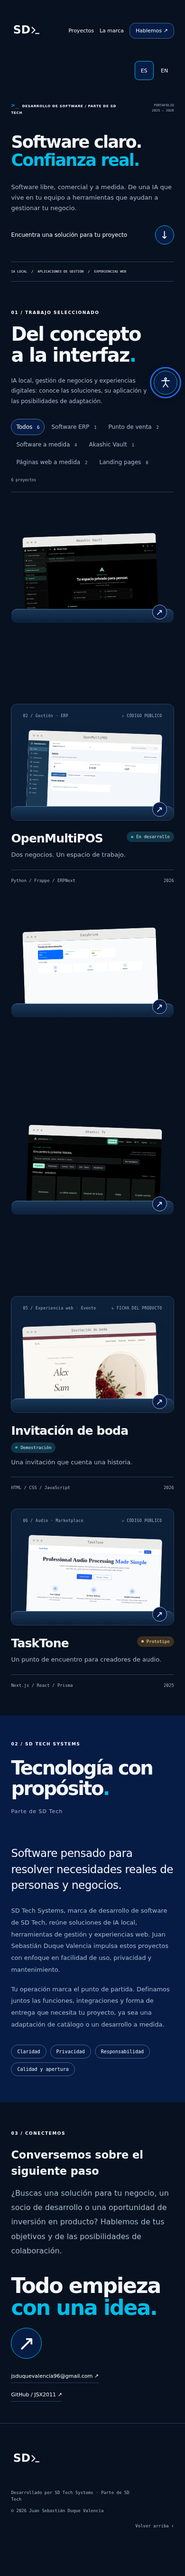
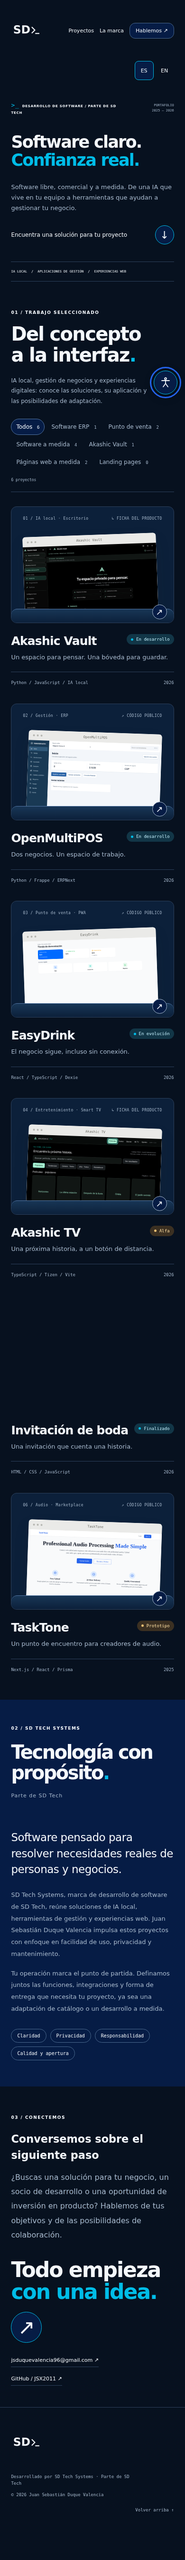
Update the wedding project page and demo presentation

diff --git a/src/data/client-details.ts b/src/data/client-details.ts
@@ -1,4 +1,4 @@
-type Detail = { audience: string; purpose: string; architecture: string; deployment: string; considerations: string; attribution?: string };
+type Detail = { audience: string; purpose: string; architecture: string; deployment: string; considerations: string; attribution?: string; inquiryLabel?: string };
 export const clientDetails: Record<string, { es: Detail; en: Detail }> = {
  'akashic-vault': {
   es:{ audience:'Personas y equipos que buscan asistencia de IA en un PC Windows y control local sobre el historial guardado.',purpose:'Redactar, organizar ideas y trabajar con asistentes sin depender de una cuenta en la nube para el chat local.',architecture:'Aplicación de escritorio con interfaz HTML/CSS/JavaScript servida por un backend Python local. Los motores de inferencia se ejecutan en el equipo; el historial guardado se gestiona en una bóveda cifrada vinculada a la USB de origen.',deployment:'Windows x64. Los motores y modelos requieren instalación local; memoria, almacenamiento y capacidades de imagen/video dependen de la edición y del hardware.',considerations:'Está en desarrollo. Las descargas y consultas web requieren consentimiento y conexión. Deben revisarse requisitos del equipo, licencias de modelos, respaldo y condiciones de entrega antes de contratar.'},
@@ -17,8 +17,8 @@ export const clientDetails: Record<string, { es: Detail; en: Detail }> = {
   en:{audience:'An example of custom development for TV remote-control navigation.',purpose:'Browse movies and series, inspect title details and select providers in a Smart TV interface.',architecture:'An HTML/CSS/TypeScript client built with Vite for Samsung Tizen and Chromium 85. The catalog queries an external metadata service; playback uses iframe-based providers with loading and recovery states.',deployment:'Private packages for Samsung Tizen TVs. Compatibility is assessed for each model and operating-system version.',considerations:'A private-use alpha. External services determine availability, audio and subtitles. This is not an audiovisual catalog offering or a guarantee of playback or content rights.'}
  },
  invitacion:{
-  es:{audience:'Clientes que buscan una página de evento con identidad visual propia y confirmación de asistencia.',purpose:'Presentar la historia y los detalles de un evento y simplificar el registro de invitados.',architecture:'Interfaz HTML/CSS/JavaScript con diseño adaptable y confirmación por grupos de personas. La demostración permite explorar la interacción sin enviar ni guardar respuestas. La integración con servicios de registro se define para cada entrega.',deployment:'Demostración estática adaptable a móvil y escritorio. El formulario permite probar validación y grupos de personas; no constituye una confirmación de asistencia real. Una integración operativa se configura por separado para cada cliente.',considerations:'Diseño, contenidos, dominio y registro de invitados se personalizan para cada evento. El tratamiento de datos y las condiciones de uso se acuerdan antes de activar una integración de asistencia.'},
-  en:{audience:'Customers seeking an event website with a tailored visual identity and RSVP functionality.',purpose:'Present an event’s story and details while simplifying guest registration.',architecture:'A responsive HTML/CSS/JavaScript interface with group RSVP interaction. The demonstration lets visitors explore the experience without sending or saving responses. Registration-service integration is defined for each delivery.',deployment:'A responsive static demonstration for mobile and desktop. The form supports validation and groups of people, but does not register real attendance. An operational integration is configured separately for each customer.',considerations:'Design, content, domain and guest registration are tailored to each event. Data handling and terms of use are agreed before enabling an attendance integration.'}
+  es:{audience:'Clientes que buscan una página de evento con identidad visual propia y confirmación de asistencia.',purpose:'Presentar la historia y los detalles de un evento y simplificar el registro de invitados.',architecture:'Interfaz HTML/CSS/JavaScript con diseño adaptable, galería y confirmación por grupos de personas. Despliegue en Cloudflare Workers con integración de registro de respuestas.',deployment:'Web entregada y publicada, adaptable a móvil y escritorio. En nuevos proyectos, los contenidos, la identidad visual y la configuración de publicación se personalizan para cada cliente.',considerations:'Este trabajo muestra una de las experiencias que podemos crear para tu evento. El diseño, los contenidos y las funciones de una nueva página se definen según tus necesidades.',inquiryLabel:'Quiero una página como esta'},
+  en:{audience:'Customers seeking an event website with a tailored visual identity and RSVP functionality.',purpose:'Present an event’s story and details while simplifying guest registration.',architecture:'A responsive HTML/CSS/JavaScript interface with a gallery and group RSVP interaction. Deployed on Cloudflare Workers with response-registration integration.',deployment:'A delivered and published website, responsive across mobile and desktop. For new projects, content, visual identity and publication settings are tailored to each client.',considerations:'This project showcases an experience we can create for your event. The design, content and features of a new website are shaped around your requirements.',inquiryLabel:'I want a website like this'}
  },
  tasktone:{
   es:{audience:'Ejemplo de producto digital para conectar clientes con profesionales de servicios de audio.',purpose:'Organizar encargos de procesamiento de audio desde la solicitud hasta la entrega; el flujo comercial completo sigue siendo una propuesta.',architecture:'Aplicación Next.js y React con TypeScript. Rutas API de Next.js, esquema PostgreSQL mediante Prisma y autenticación por roles. Las integraciones de pagos, almacenamiento y mensajería deben completarse y verificarse.',deployment:'Aplicación web con backend y base de datos PostgreSQL. Para una entrega se requieren infraestructura, variables de entorno, almacenamiento y servicios externos configurados.',considerations:'Producto en fase de prototipo. La siguiente etapa de desarrollo contempla cargas, pagos, mensajería y paneles, junto con la validación del flujo comercial completo.'},

diff --git a/src/data/projects.ts b/src/data/projects.ts
@@ -45,13 +45,13 @@ export const projects = [
   },
   {
     id: 'invitacion', name: 'Invitación de boda', category: 'Experiencia web · Evento', group: 'web', private: true,
-    status: 'Demostración', version: 'Diseño de referencia', year: '2026', image: 'invitation-demo-3a01c953b117.png', color: '#e6d4d4',
+    status: 'Finalizado', version: 'Proyecto entregado', year: '2026', image: 'invitation-demo-3a01c953b117.png', color: '#e6d4d4',
     title: 'Una invitación que cuenta una historia.',
-    description: 'Invitación de boda adaptable en español, con una dirección visual en burdeos y marfil. Combina la historia de la pareja, una galería y herramientas para organizar la asistencia.',
-    features: ['Portada, historia y galería con ampliación.', 'Cuenta regresiva, mapas y acceso a calendarios.', 'Confirmación familiar con registro individual por asistente.', 'Formulario de demostración local, sin envío ni almacenamiento de respuestas.'],
-    progress: 'Demostración interactiva de una invitación personalizada. Cada entrega se adapta al estilo del evento, sus contenidos y las integraciones acordadas. El formulario de esta muestra no registra asistencia real.',
+    description: 'Web de boda a medida, finalizada y aprobada por el cliente. Integra diseño adaptable, galería, información del evento y confirmación de asistencia en una experiencia personalizada.',
+    features: ['Portada, historia y galería con ampliación.', 'Cuenta regresiva, mapas y acceso a calendarios.', 'Confirmación familiar con registro individual por asistente.', 'Formulario de confirmación integrado en la experiencia del evento.'],
+    progress: 'Proyecto finalizado, revisado y aprobado por el cliente. Un ejemplo de desarrollo web a medida que puede adaptarse a otros eventos, estilos y necesidades.',
     stack: ['HTML', 'CSS', 'JavaScript', 'Cloudflare Workers'],
-    capture: 'Diseño de invitación con ilustración y datos de ejemplo.',
+    capture: 'Muestra del proyecto entregado con ilustración y datos ficticios para su presentación pública.',
     source: 'private-event-demo',
   },
   {

diff --git a/src/data/projects-en.ts b/src/data/projects-en.ts
@@ -33,12 +33,12 @@ export const english: Record<string, { name?: string; category: string; status: 
   capture:'Catalog browsing with sample titles.',
  },
  invitacion:{
-  name:'Wedding invitation', category:'Web experience · Event',status:'Demonstration',version:'Reference design',
+  name:'Wedding invitation', category:'Web experience · Event',status:'Completed',version:'Delivered project',
   title:'An invitation that tells a story.',
-  description:'A responsive Spanish wedding invitation with a burgundy and ivory visual direction. It combines the couple’s story, a gallery and tools for organizing attendance.',
-  features:['Cover, story and a gallery with image enlargement.','Countdown, maps and calendar links.','Family RSVP with an individual record for each guest.','A local demonstration form that does not send or store responses.'],
-  progress:'An interactive demonstration of a personalized invitation. Each delivery is tailored to the event’s style, content and agreed integrations. The sample form does not register real attendance.',
-  capture:'Invitation design with an illustration and sample details.',
+  description:'A custom wedding website, completed and approved by the client. It brings together responsive design, a gallery, event information and RSVP functionality in a personalized experience.',
+  features:['Cover, story and a gallery with image enlargement.','Countdown, maps and calendar links.','Family RSVP with an individual record for each guest.','An RSVP form integrated into the event experience.'],
+  progress:'A completed project, reviewed and approved by the client. An example of custom web development that can be adapted to other events, styles and requirements.',
+  capture:'A showcase of the delivered project with an illustration and fictional details for public presentation.',
  },
  tasktone:{
   category:'Audio · Marketplace',status:'Prototype',version:'0.1.0',

diff --git a/docs/CONFIGURACION.md b/docs/CONFIGURACION.md
@@ -44,3 +44,5 @@ La ficha de boda debe usar únicamente nombres, fechas, horarios, lugares, conta
 ## Redacción pública
 
 Los textos renderizados deben dirigirse a clientes, posibles aliados e inversionistas: problema, utilidad, público objetivo, arquitectura, entrega y alcance. Las notas de revisión, procedimientos de prueba, manifest de capturas y seguimiento interno permanecen en la documentación técnica, no en las fichas ni en el pie del sitio. Mantén visibles los estados reales de desarrollo y las limitaciones que afectan la contratación. No añadas métricas de negocio, clientes, certificaciones, rentabilidades o funciones sin evidencia. La demo de asistencia debe conservar el aviso de que no registra respuestas.
+
+La invitación de boda se presenta como un proyecto finalizado y aprobado por el cliente, conforme a la confirmación del propietario. La muestra pública usa contenidos ficticios y un formulario local sin envío. Estos dos estados se describen por separado: producto entregado y muestra interactiva del portafolio. El campo opcional `inquiryLabel` de `client-details.ts` permite personalizar la llamada comercial de una ficha en cada idioma.

diff --git a/docs/VERIFICACION.md b/docs/VERIFICACION.md
@@ -35,3 +35,7 @@ Pruebas sobre la compilación de producción, en español e inglés: campos obli
 ## Revisión editorial comercial
 
 Texto de interfaz y fichas revisado en español e inglés para visitantes externos. Retiradas las notas de revisión documental, narración de pruebas y aprobación interna. Mantenidos los estados de producto, las funciones pendientes, créditos y el aviso de la demo sin envío. Compilación y recorrido bilingüe comprobados, incluyendo filtros, fichas, cambio de idioma, texto al 150 %, accesibilidad y movimiento reducido. La invitación a clientes, aliados e inversionistas no incorpora métricas comerciales ni promesas de retorno.
+
+## Invitación como proyecto entregado
+
+Estado y versión actualizados a Finalizado/Proyecto entregado y Completed/Delivered project según la confirmación del propietario. Comprobadas tarjeta, ficha, texto de aprobación y llamada comercial en ambos idiomas. Comparados los datos de los demás productos para confirmar que sus estados no cambian. Se mantienen los contenidos anónimos y las pruebas de ausencia de solicitudes de red o almacenamiento de respuestas en la muestra de asistencia.
